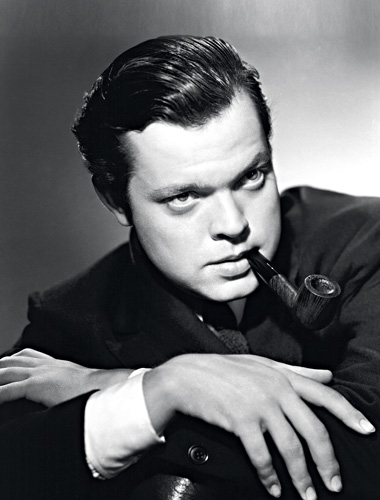
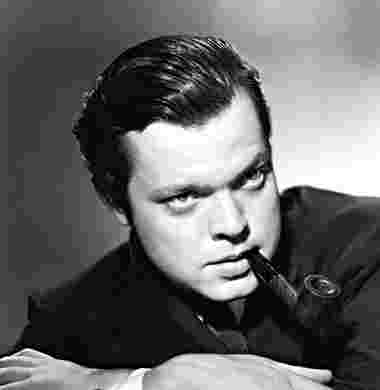
Added image of Orson Welles.

diff --git a/index.html b/index.html
@@ -10,7 +10,8 @@
   <body>
 
     <main>
-      <p>Hello, World</p>
+      <img class="orson" width=100 height="100" src="images/orson.jpg">
+      <h1>Segunda Cinéfila</h1>
     </main>
 
   </body>

diff --git a/style.css b/style.css
@@ -1,6 +1,9 @@
 body {
   background-image: url(images/bg.jpg);
 }
-p {
+h1 {
   color: yellow;
+}
+.orson {
+	border: 4mm ridge rgba(200, 200, 200, 1);
 }
